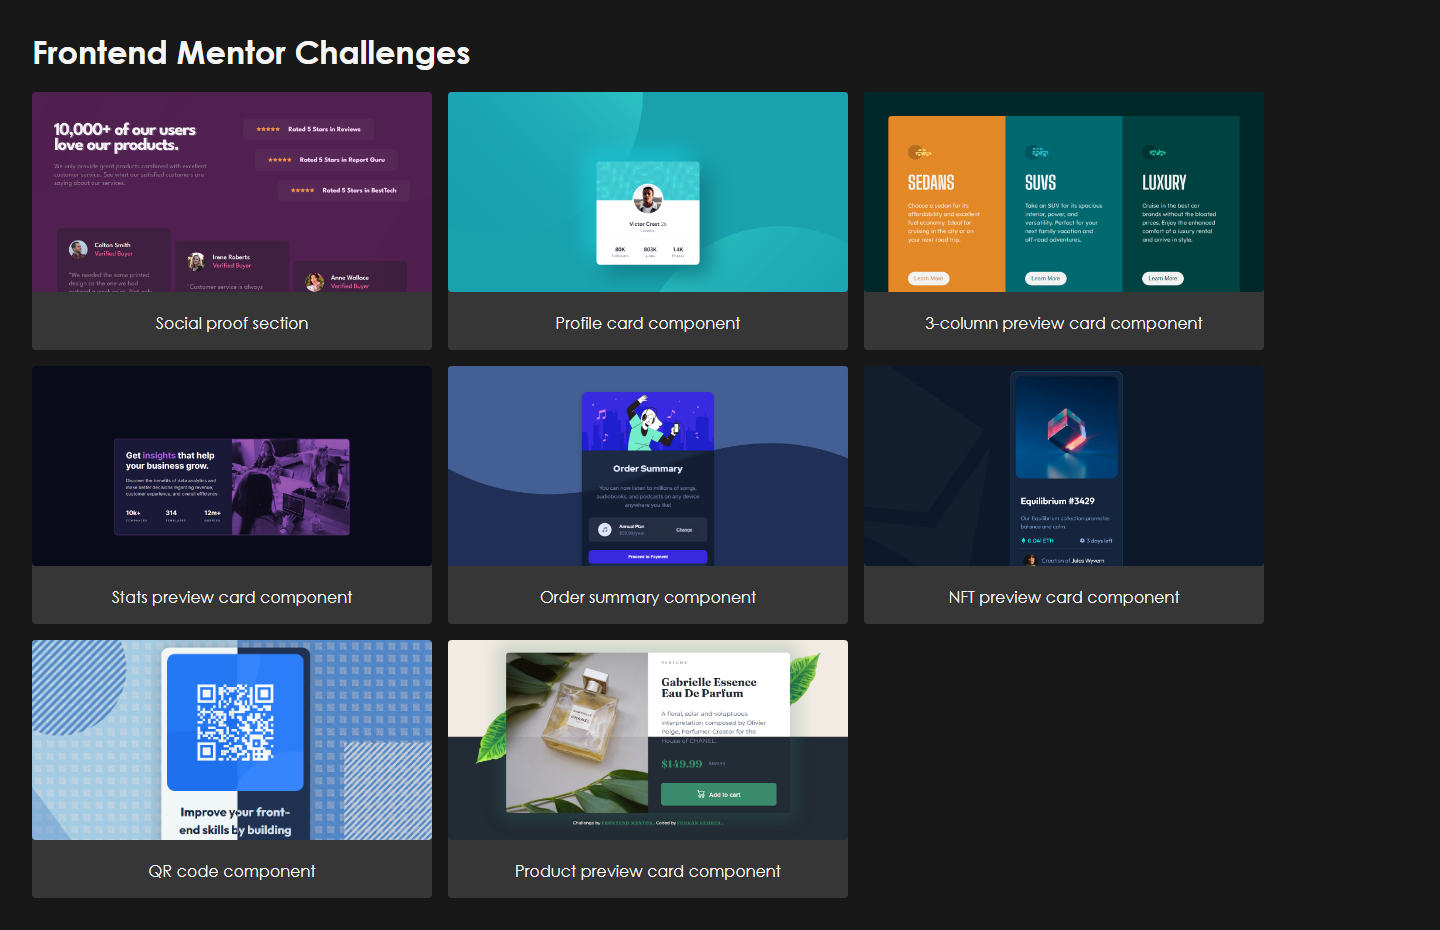
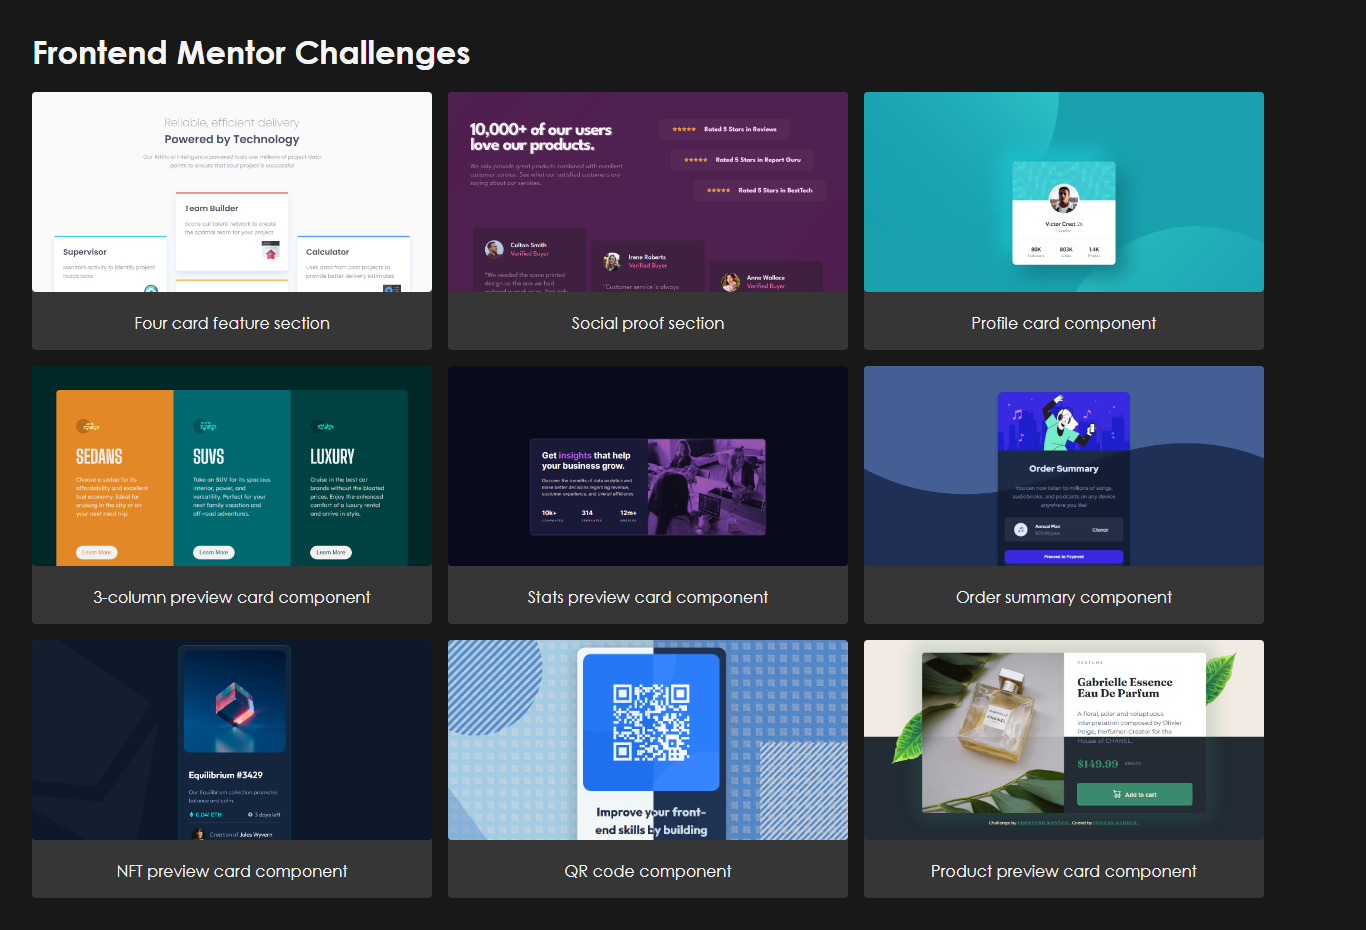
add challenge-9

diff --git a/index.html b/index.html
@@ -87,6 +87,19 @@
             </figure> -->
             <figure>
                 <a
+                    href="https://rehberbey.github.io/Frontend-Mentor-Challenges/four-card-feature-section-master/dist/index.html"
+                    target="_blank"
+                    rel="noopener noreferrer"
+                >
+                    <img
+                        src="./four-card-feature-section-master/design/desktop.png"
+                        alt="challenge-9"
+                    />
+                    <figcaption>Four card feature section</figcaption>
+                </a>
+            </figure>
+            <figure>
+                <a
                     href="https://rehberbey.github.io/Frontend-Mentor-Challenges/social-proof-section-master/dist/index.html"
                     target="_blank"
                     rel="noopener noreferrer"
